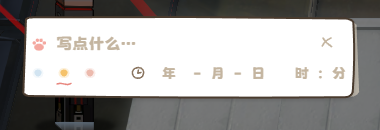
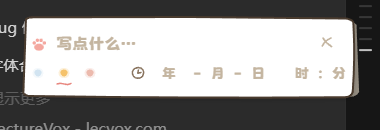
fix(todo): 迷你窗恢复原版 SVG 全套视觉（撤 drop-shadow 与 vector-effect）
作者验收否决两处视觉改动：drop-shadow 纸影在 380 下与原内部阴影观感
不一致、vector-effect 使 380 描边细微加粗。现恢复原 SVG 内部阴影层 +
filter 的完整原样，380 渲染管线与基线完全一致；拉伸时纸影/描边同比
变化为原版自然行为（作者确认接受）。保留：百分比内容锚定（防溢出）、
单轴约束、E/W 把手（仿射 calc inset 全宽度贴线）、miniWidth 持久化。

diff --git a/src/plugins/todo/components/MiniInput/index.vue b/src/plugins/todo/components/MiniInput/index.vue
@@ -165,10 +165,8 @@ function clearTimers() {
         :fill="state === 'saved' ? '#e0f0d8' : '#e8dcc8'"
         opacity="0.6"
       />
-      <!-- 主框（变体 B 中笔画；按 280→380 等比缩放，四边中间有起伏）。
-           vector-effect：横向拉宽（issue #19 mini 可调）时描边保持 2px 不变细。
-           原作 SVG 整体保留不重绘——曾尝试 6-slice 重构，边线笔触被数学近似
-           抹掉神韵（作者否决），monolithic + 本属性 + 百分比内容锚定即可。 -->
+      <!-- 主框：原作 SVG 完全未动（含阴影层与 filter）。横向拉宽时的描边/纸影
+           同比变化即原版自然行为，作者确认接受——任何"视觉增强"都不加。 -->
       <path
         d="M 14.9 9 Q 17.6 6 23.1 6.5 Q 190 5 356.9 8 Q 365.1 10 364.4 14 Q 366.4 55 363.7 98 Q 362.4 104 355.6 104.5 Q 190 106 17.6 103 Q 10.9 101 12.2 97 Q 13.6 50 14.9 9 Z"
         :fill="state === 'saved' ? '#f6fbf2' : 'var(--paper)'"
@@ -177,7 +175,6 @@ function clearTimers() {
         stroke-linecap="round"
         stroke-linejoin="round"
         stroke-width="2"
-        vector-effect="non-scaling-stroke"
       />
     </svg>
 

diff --git a/src/pages/todo/index.vue b/src/pages/todo/index.vue
@@ -306,8 +306,8 @@ function handleClose() {
       v-else
       :directions="['East', 'West']"
       inset-bottom="40%"
-      inset-left="7%"
-      inset-right="8%"
+      inset-left="calc(5.1% + 3.6px)"
+      inset-right="calc(3% + 15.6px)"
       inset-top="40%"
     />
     <TodoPanel
